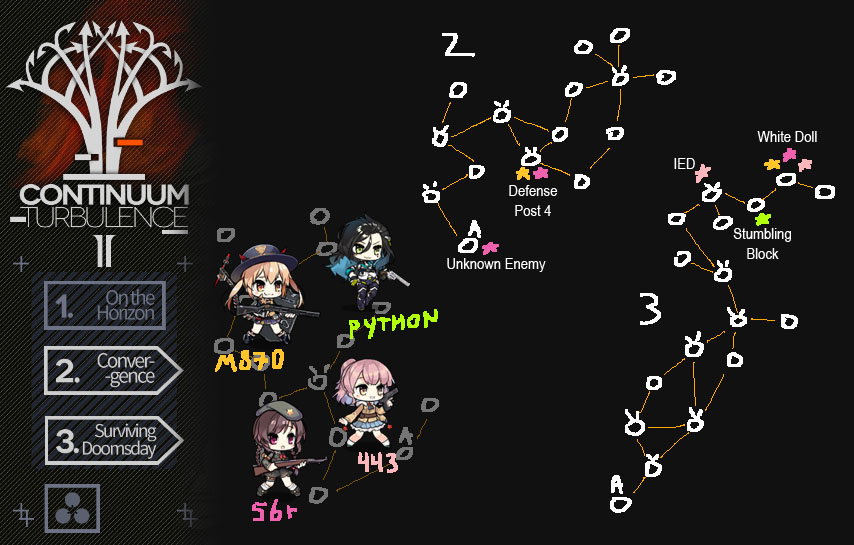
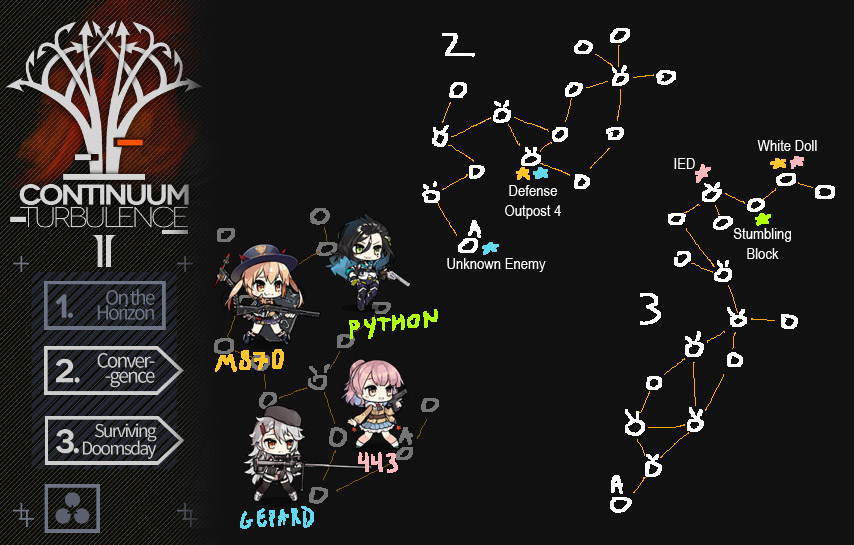
3.0 droptable change (real)

diff --git a/permdolls.html b/permdolls.html
@@ -6,7 +6,7 @@
 
 <div style="text-align:center; color:#ffffff">
 	<h1 id="D0">PERMANENT CONTENT DOLLS FARM GUIDES</h1>
-	<p>Current as of April 2022 - by RevenantXIII (1340439) - <a href="https://discord.gg/gfen">Join the GFL EN discord!</a></p>
+	<p>Current as of December 2022 - by RevenantXIII (1340439) - <a href="https://discord.gg/gfen">Join the GFL EN discord!</a></p>
 	<p><br></p>
 	<p>These are powerful dolls you'll want to have. The 3*s have excellent future mods. Click on them to take you to the campaign they're in.</p>	
 	<p><br></p>
@@ -15,11 +15,13 @@
 		<div><a href="#D2"><img src="permdolls/dolls/m870.jpg"></img></a></div>•
 		<div><a href="#D3"><img src="permdolls/dolls/python.jpg"></img></a></div>•
 		<div><a href="#D4"><img src="permdolls/dolls/443.jpg"></img></a></div>•
-		<div><a href="#D5"><img src="permdolls/dolls/56r.jpg"></img></a></div>•
-		<div><a href="#D6"><img src="permdolls/dolls/p22.jpg"></img></a></div>
+		<div><a href="#D5"><img src="permdolls/dolls/gepard.jpg"></img></a></div>•
+		<div><a href="#D6"><img src="permdolls/dolls/p22.jpg"></img></a></div>•
+		<div><a href="#D6"><img src="permdolls/dolls/obr.jpg"></img></a></div>•
+		<div><a href="#D7"><img src="permdolls/dolls/56r.jpg"></img></a></div>
 	</div>
 <p>You can use <a href="https://docs.google.com/spreadsheets/d/1D48c15HfsGsxL7bP6dwYoNw7HfgyOZuGxUD0bH1dwJs/edit#gid=0">this spreadsheet</a> to calculate how much resources per check will be spent with your echelons ('File' - 'Make a copy' to edit it)</p>
-
+<p>[Recently updated to v3.0's changes to the campaign droptable (same as CN) and added OBR & Gepard]</p>
 <p>For dolls not yet added to this guide, you can peruse <a href="https://docs.google.com/document/d/1GUcA1ZHYVKBhTspdRYPIkECVZRoLFvqDnLrgrFb6VcU/edit">this compilation</a> by Frey#2912 (Ctrl + F and search for the doll you'd like to farm)</p>
 
 <p><br></p>
@@ -28,24 +30,28 @@
 <img src="permdolls/maps/kord.jpg"></img><br>
 <img src="permdolls/guides/kord.jpg"></img>
 <p><br></p>
-<h2 id="D2">Python, M870, Type 56R, MP-443: Continuum Turbulence</h1>
+<h2 id="D2">Python, M870, MP-443, Gepard M1: Continuum Turbulence</h1>
 <h3>Various maps. Legend:</h3>
 <img src="permdolls/maps/ct.jpg"></img><br>
 <h3>Chapter 3 - White Doll</h3>
-<img src="permdolls/guides/white doll m870+56r+443.jpg"></img>
+<img src="permdolls/guides/white doll.jpg"></img>
 <h3 id="D3">Chapter 3 - Stumbling Block</h3>
 <img src="permdolls/guides/python.jpg"></img>
 <h3 id="D4">Chapter 3 - IED</h3>
 <img src="permdolls/guides/ied 443.jpg"></img>
 <h3>Chapter 2 - Defense Post 4</h3>
-<img src="permdolls/guides/defense post 4 m870+56r.jpg"></img>
+<img src="permdolls/guides/defense post 4 m870+gepard.jpg"></img>
 <h3 id="D5">Chapter 2 - Unknown Enemy</h3>
-<img src="permdolls/guides/unknown enemy 56r.jpg"></img>
+<img src="permdolls/guides/gepard.jpg"></img>
 <p><br></p>
-<h2 id="D6">P22: Isomer</h1>
+<h2 id="D6">P22, OBR: Isomer</h1>
 <h3>Faith of Blood II EX</h3>
-<img src="permdolls/maps/p22.jpg"></img><br>
+<img src="permdolls/maps/iso.jpg"></img><br>
 <img src="permdolls/guides/p22.jpg"></img>
+<p><br></p>
+<h2 id="D7">Type 56R: Arctic Warfare</h1>
+<h3>Chapter 1 - The Wolves Gather III</h3>
+<img src="permdolls/guides/56r.jpg"></img>
 <p><br></p>
 
 </div>
